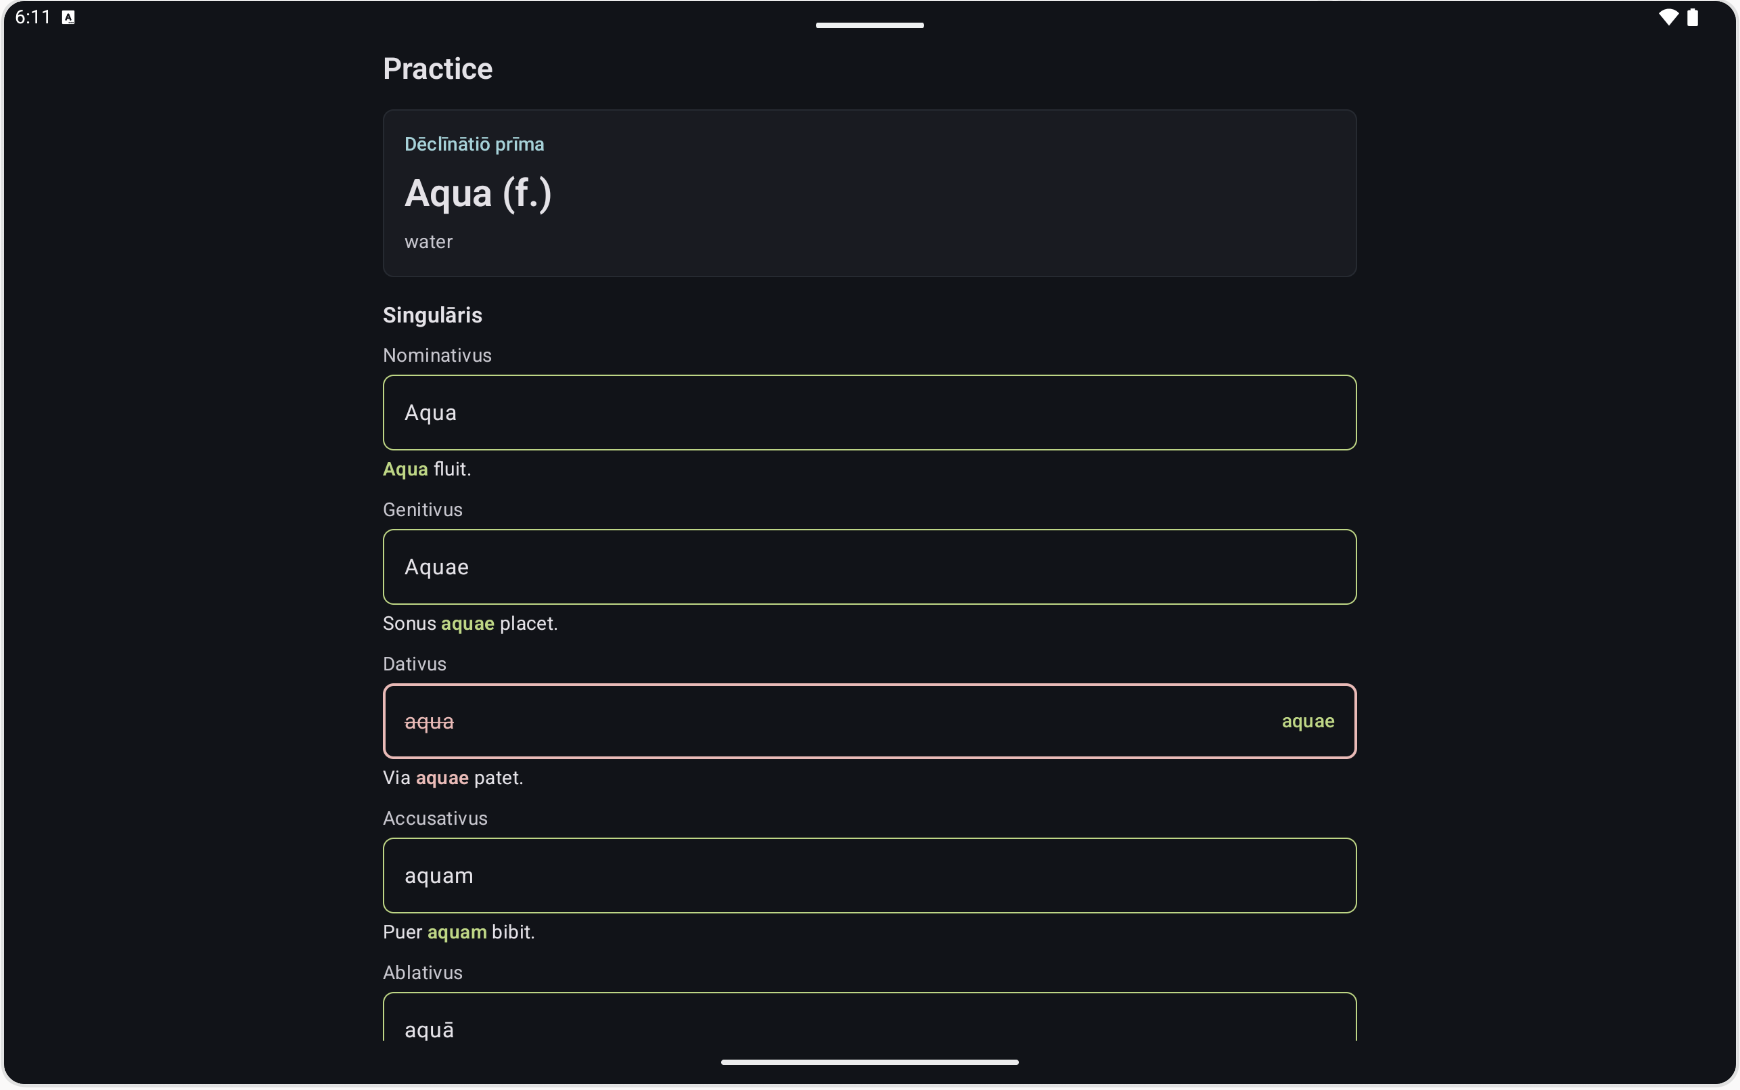
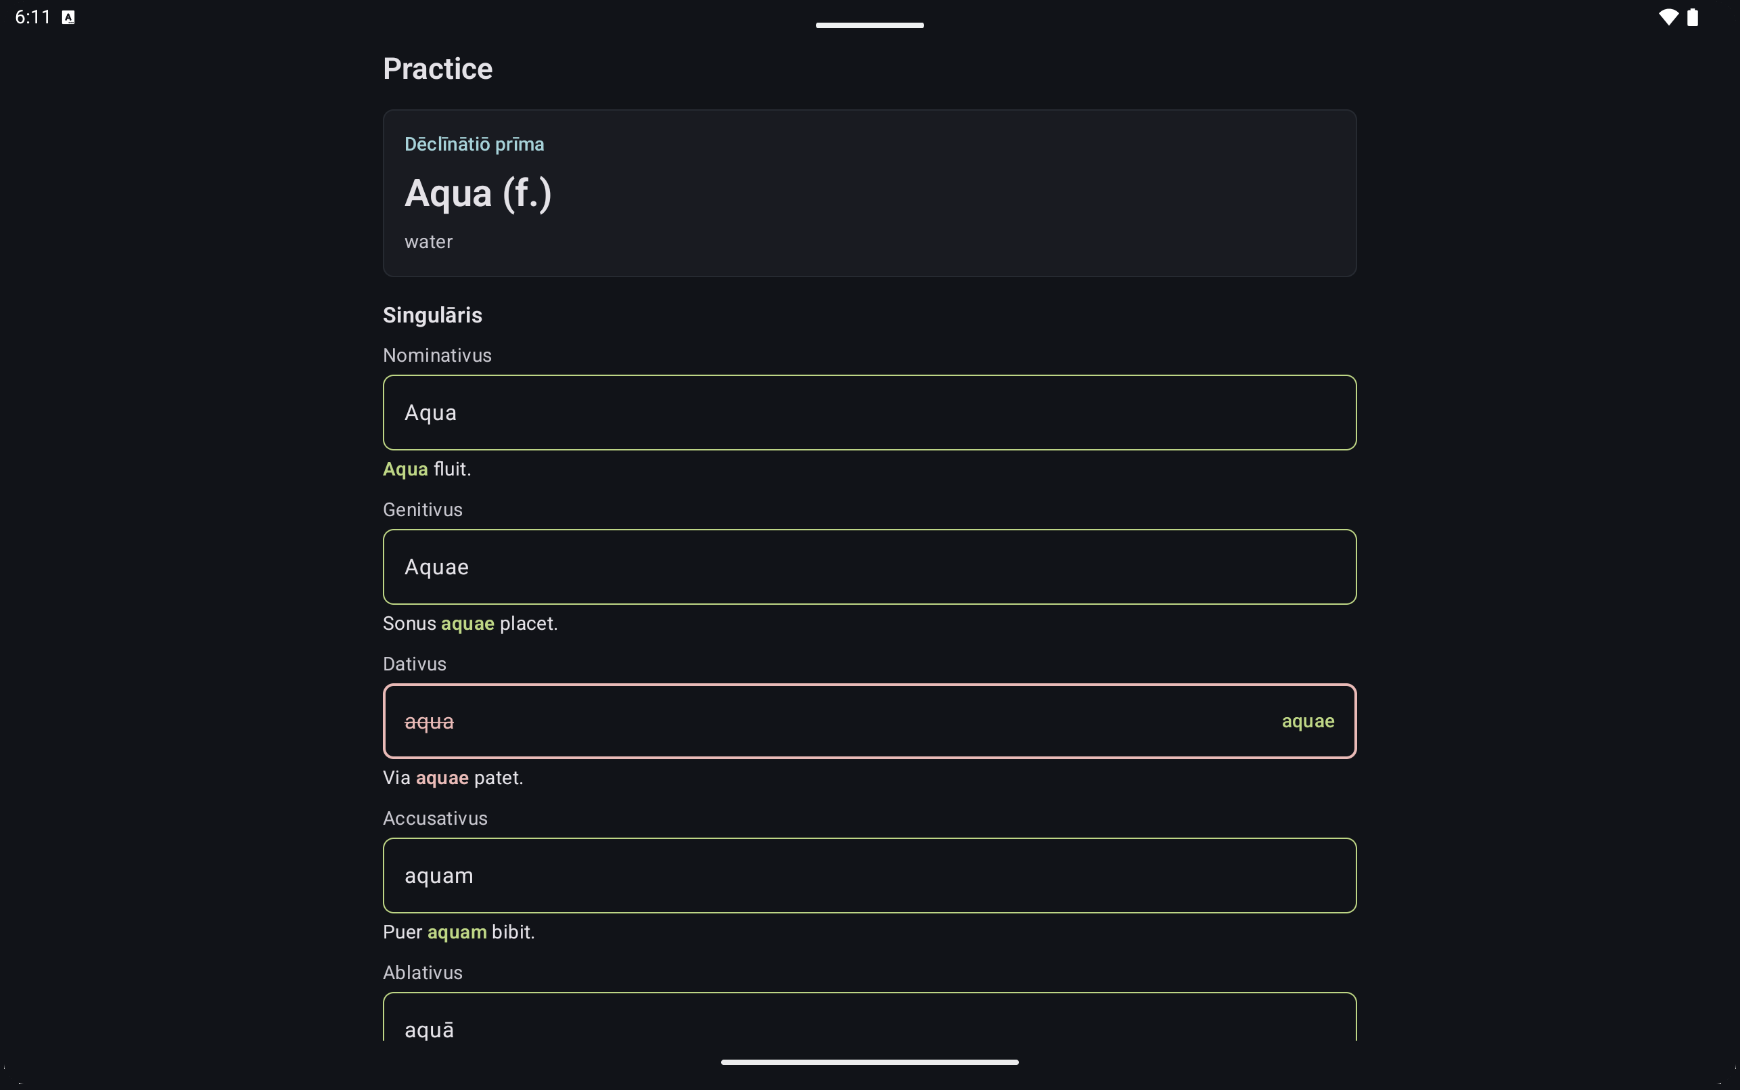
clean table img

Changed region(s): [[0.0, 0.0, 1.0, 1.0], [0.0, 0.0, 0.031, 0.0312]]

diff --git a/index.html b/index.html
@@ -1,25 +1,38 @@
 <!doctype html>
 <html lang="en">
   <head>
-    <meta charset="utf-8">
-    <meta name="viewport" content="width=device-width, initial-scale=1">
+    <meta charset="utf-8" />
+    <meta name="viewport" content="width=device-width, initial-scale=1" />
     <title>Magister Virtuālis | Gnipho</title>
-    <meta name="description" content="Gnipho presents Magister Virtuālis, a focused Android app for practicing Latin noun declensions offline.">
-    <meta property="og:title" content="Magister Virtuālis">
-    <meta property="og:description" content="Practice Latin noun declensions with focused offline drills.">
-    <meta property="og:image" content="https://www.gnipho.app/assets/feature-graphic.png">
-    <meta property="og:url" content="https://www.gnipho.app/">
-    <meta name="theme-color" content="#111318">
-    <link rel="canonical" href="https://www.gnipho.app/">
-    <link rel="icon" type="image/png" href="assets/app-icon.png">
-    <link rel="stylesheet" href="styles.css">
+    <meta
+      name="description"
+      content="Gnipho presents Magister Virtuālis, a focused Android app for practicing Latin noun declensions offline."
+    />
+    <meta property="og:title" content="Magister Virtuālis" />
+    <meta
+      property="og:description"
+      content="Practice Latin noun declensions with focused offline drills."
+    />
+    <meta
+      property="og:image"
+      content="https://www.gnipho.app/assets/feature-graphic.png"
+    />
+    <meta property="og:url" content="https://www.gnipho.app/" />
+    <meta name="theme-color" content="#111318" />
+    <link rel="canonical" href="https://www.gnipho.app/" />
+    <link rel="icon" type="image/png" href="assets/app-icon.png" />
+    <link rel="stylesheet" href="styles.css" />
   </head>
   <body>
     <header class="hero">
-      <img class="hero__image" src="assets/feature-graphic.png" alt="Ancient Roman classroom illustration">
+      <img
+        class="hero__image"
+        src="assets/feature-graphic.png"
+        alt="Ancient Roman classroom illustration"
+      />
       <nav class="topbar" aria-label="Primary navigation">
         <a class="brand" href="./" aria-label="Gnipho home">
-          <img src="assets/app-icon.png" alt="" width="40" height="40">
+          <img src="assets/app-icon.png" alt="" width="40" height="40" />
           <span>Gnipho</span>
         </a>
         <div class="topbar__links">
@@ -30,7 +43,10 @@
       <div class="hero__content" id="top">
         <p class="eyebrow">Gnipho presents</p>
         <h1>Magister Virtuālis</h1>
-        <p class="lede">A quiet Android study app for drilling Latin noun forms offline with instant review, examples, and macron-aware grading.</p>
+        <p class="lede">
+          A quiet Android study app for drilling Latin noun forms offline with
+          instant review, examples, and macron-aware grading.
+        </p>
         <a class="button" href="#screens">View the app</a>
       </div>
     </header>
@@ -44,15 +60,24 @@
         <div class="intro__grid">
           <article>
             <h3>Declension sets</h3>
-            <p>Choose from first through fifth declensions and practice from an offline noun pool.</p>
+            <p>
+              Choose from first through fifth declensions and practice from an
+              offline noun pool.
+            </p>
           </article>
           <article>
             <h3>Review in context</h3>
-            <p>Answers are graded immediately, with example sentences that reveal the practiced form.</p>
+            <p>
+              Answers are graded immediately, with example sentences that reveal
+              the practiced form.
+            </p>
           </article>
           <article>
             <h3>Macron aware</h3>
-            <p>Accent-like vowel input is normalized while keeping correct Latin forms visible.</p>
+            <p>
+              Accent-like vowel input is normalized while keeping correct Latin
+              forms visible.
+            </p>
           </article>
         </div>
       </section>
@@ -64,19 +89,29 @@
         </div>
         <div class="screen-grid">
           <figure class="device device--phone">
-            <img src="assets/practice-phone.png" alt="Magister Virtuālis practice screen on a phone">
-            <figcaption>Practice rows stay vertical and easy to scan.</figcaption>
+            <img
+              src="assets/practice-phone.png"
+              alt="Magister Virtuālis practice screen on a phone"
+            />
+            <figcaption>
+              Practice rows stay vertical and easy to scan.
+            </figcaption>
           </figure>
           <figure class="device device--wide">
-            <img src="assets/practice-tablet.png" alt="Magister Virtuālis practice screen on a tablet">
-            <figcaption>Tablet layouts keep the learning surface centered.</figcaption>
+            <img
+              src="assets/practice-tablet.png"
+              alt="Magister Virtuālis practice screen on a tablet"
+            />
+            <figcaption>
+              Tablet layouts keep the learning surface centered.
+            </figcaption>
           </figure>
         </div>
       </section>
     </main>
 
     <footer>
-      <p>Magister Virtuālis is built as a Kotlin Multiplatform study app. Android is the current runnable target.</p>
+      <p>Made with love ❤️ by David R.</p>
     </footer>
   </body>
 </html>